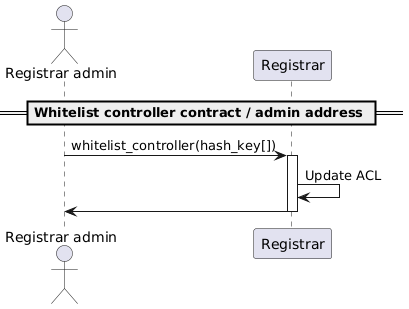
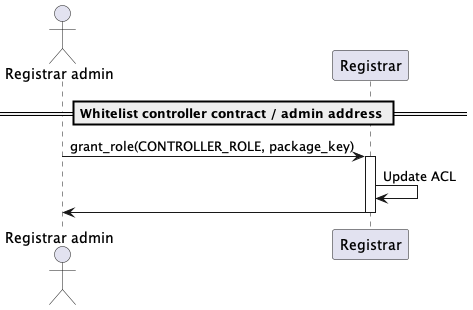
Changes to registrar admin functions: - added revoke controller permissions diagram - expire domain clears resolver from registrar - admin transfer clears resolver from registrar - burn clears resolver from registrar

diff --git a/docs/sequence-diagrams/Admin functions.md b/docs/sequence-diagrams/Admin functions.md
@@ -22,7 +22,12 @@ _used also to delist a registrar_
 ![](puml/whitelist-controller.png)
 [🔗](puml/whitelist-controller.puml)
 
-_used also to delist a controller or admin address._
+### Revoke a controller contract or admin address
+
+> As a Registrar admin, I should be able to revoke a controller contract or admin account address.
+
+![](puml/revoke-controller.png)
+[🔗](puml/revoke-controller.puml)
 
 ### Set grace period time span
 
